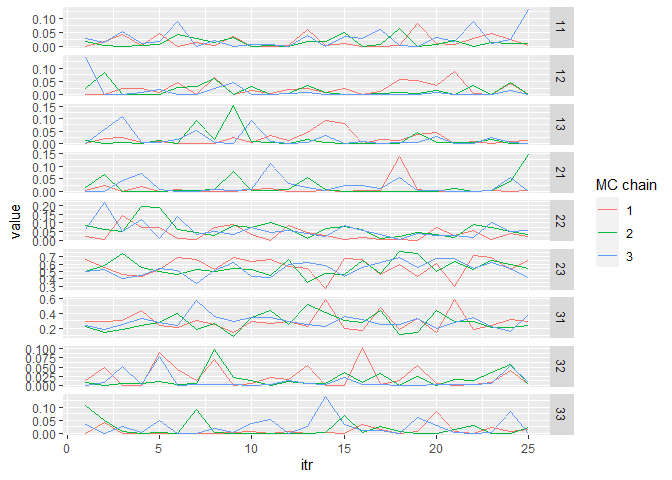
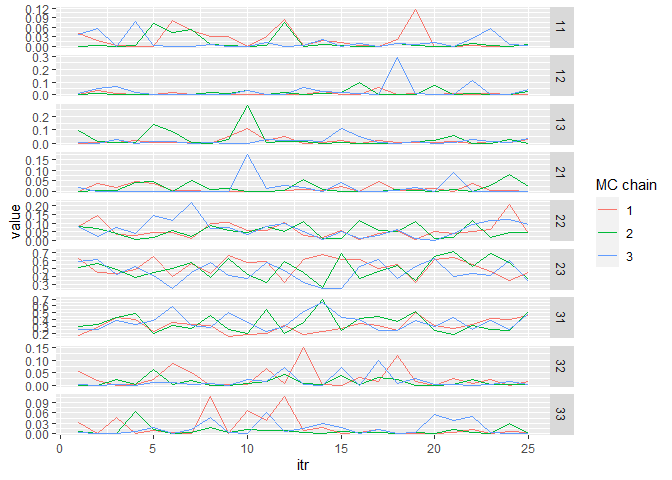
edit read me

diff --git a/README.md b/README.md
@@ -22,7 +22,7 @@ You can install the development version of magma.gsi from
 
 ``` r
 # install.packages("devtools")
-devtools::install_github("boppingshoe/magma.gsi")
+devtools::install_github("boppingshoe/magma.gsi", build_vignettes = TRUE)
 ```
 
 ## Example
@@ -37,16 +37,16 @@ wd <- getwd() # path to data folder
 magma_data <- magmatize_data(wd = wd, save_data = FALSE)
 #> Compiling input data, may take a minute or two...
 #> No missing hatcheries
-#> Time difference of 13.17325 secs
+#> Time difference of 14.4887 secs
 ```
 
 Run the model:
 
 ``` r
 magma_out <- magmatize_mdl(magma_data, nreps = 50, nburn = 25, thin = 1, nchains = 3)
-#> Running model (and the category is... Best Dressed!)
-#> Time difference of 3.288395 secs
-#> 2023-08-11 13:41:45.452511
+#> Running model (and the category is... High Class In A Fur Coat!)
+#> Time difference of 14.10798 secs
+#> 2023-08-11 15:58:19.739176
 ```
 
 Summarize the results:
@@ -54,23 +54,23 @@ Summarize the results:
 ``` r
 magma_summ <- magmatize_summ(ma_out = magma_out, ma_dat = magma_data, summ_level = "district", type = "age")
 #> Preparing output (patience grasshopper...)
-#> Time difference of 0.8373759 secs
-#> 2023-08-11 13:41:46.35936
+#> Time difference of 0.860641 secs
+#> 2023-08-11 15:58:20.685513
 
 magma_summ$age_summ[1]
 #> $`(1)_D1_Koyukuk`
 #> # A tibble: 9 × 10
 #>   group   age     mean  median     sd      ci.05  ci.95     p0    GR n_eff
 #>   <chr>   <chr>  <dbl>   <dbl>  <dbl>      <dbl>  <dbl>  <dbl> <dbl> <dbl>
-#> 1 Koyukuk 11    0.0208 0.0120  0.0257 0.000140   0.0707 0.0667  1.09  75  
-#> 2 Koyukuk 12    0.0174 0.00570 0.0251 0.0000638  0.0641 0.147   1.13  75  
-#> 3 Koyukuk 13    0.0176 0.00449 0.0297 0.0000322  0.0923 0.12    1.02  59.3
-#> 4 Koyukuk 21    0.0162 0.00423 0.0301 0.0000100  0.0733 0.187   1.01  75  
-#> 5 Koyukuk 22    0.0531 0.0463  0.0448 0.00125    0.139  0.0267  1.35  71.0
-#> 6 Koyukuk 23    0.554  0.547   0.105  0.394      0.699  0       1.01  56.6
-#> 7 Koyukuk 31    0.286  0.273   0.104  0.145      0.490  0       1.01 170. 
-#> 8 Koyukuk 32    0.0169 0.00571 0.0248 0.00000178 0.0726 0.12    1.01 153. 
-#> 9 Koyukuk 33    0.0182 0.00520 0.0281 0.00000483 0.0832 0.173   1.10  75
+#> 1 Koyukuk 11    0.0163 0.00442 0.0251 0.000106   0.0749 0.0667 1.01   75  
+#> 2 Koyukuk 12    0.0179 0.00596 0.0387 0.0000188  0.0700 0.147  1.01   75  
+#> 3 Koyukuk 13    0.0217 0.00680 0.0410 0.0000860  0.0985 0.0667 1.03   75  
+#> 4 Koyukuk 21    0.0158 0.00540 0.0266 0.00000870 0.0536 0.16   1.08   75  
+#> 5 Koyukuk 22    0.0618 0.0527  0.0437 0.00632    0.126  0      0.994 122. 
+#> 6 Koyukuk 23    0.494  0.496   0.117  0.308      0.665  0      1.06   82.3
+#> 7 Koyukuk 31    0.339  0.315   0.118  0.181      0.529  0      1.05   75  
+#> 8 Koyukuk 32    0.0189 0.00537 0.0295 0.0000286  0.0768 0.12   1.02   66.2
+#> 9 Koyukuk 33    0.0142 0.00435 0.0230 0.00000701 0.0618 0.187  0.998  60.3
 ```
 
 There’s a function in the package to make trace plots and inspect mixing
